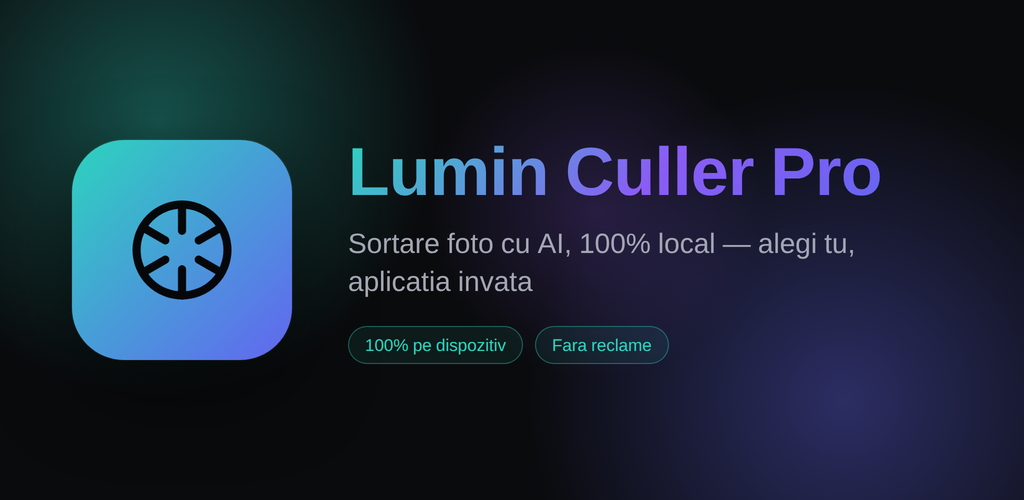
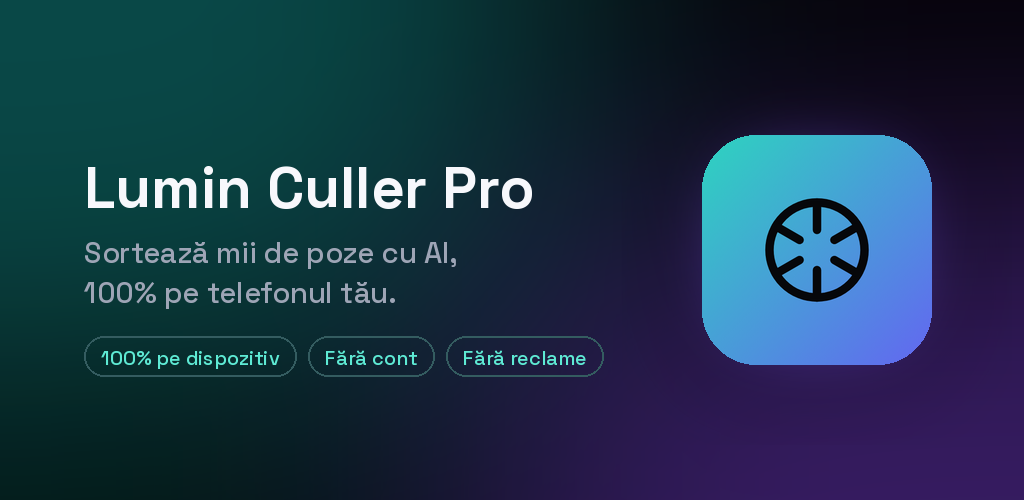
Imaginea reprezentativă, refăcută în stilul capturilor noi
Cea dinainte scria "aplicatia invata" — fără diacritice, exact defectul pe care
tocmai l-am scos din descriere. Într-o fișă unde restul e îngrijit, un singur
rând lăsat așa nu citește ca economie, ci ca neglijență, și e primul lucru pe
care îl vede cineva care deschide pagina.

Același fundal și aceleași fonturi ca la capturi, ca fișa să arate ca un întreg.
Textul stă la stânga și sigla la dreapta pentru că Play decupează imaginea pe
unele suprafețe și pune titlul și butoanele peste ea: când se taie, se taie din
aer, nu din cuvinte.

Claude-Session: https://claude.ai/code/session_0155ruC6WPAMZsMAjxbzwDqH

diff --git a/scripts/store-feature-graphic.py b/scripts/store-feature-graphic.py
@@ -1,0 +1,106 @@
+"""
+Imaginea reprezentativa (feature graphic) pentru Play Store — 1024x500.
+
+Cea dinainte scria "Sortare foto cu AI, 100% local — alegi tu, aplicatia
+invata": fara diacritice, adica exact defectul pe care l-am scos din descriere.
+Intr-o fisa unde restul textelor sunt ingrijite, un singur "aplicatia invata"
+lasat asa citeste ca neglijenta, nu ca economie.
+
+Foloseste acelasi fundal si aceleasi fonturi ca `store-screenshots.py`, ca fisa
+sa arate ca un intreg: doua lumini colorate — turcoaz sus-stanga, violet
+jos-dreapta — nu un degrade plat.
+
+Play decupeaza imaginea pe unele suprafete si suprapune peste ea butoane si
+titlu, asa ca tot ce conteaza sta departe de margini si de coltul din
+dreapta-jos. Textul e la stanga, sigla la dreapta: cand se taie, se taie din
+aer, nu din cuvinte.
+
+Ruleaza:  python3 scripts/store-feature-graphic.py [ro|en]
+"""
+import os
+import sys
+from PIL import Image, ImageDraw, ImageFont, ImageFilter
+
+sys.path.insert(0, os.path.dirname(os.path.abspath(__file__)))
+from importlib import import_module
+sg = import_module('store-screenshots'.replace('-', '_')) if False else None
+
+W, H = 1024, 500
+TEXT = (247, 248, 252)
+SUB = (158, 165, 182)
+TEAL = (94, 234, 212)
+
+TEXTE = {
+    'ro': ('Sortează mii de poze cu AI,\n100% pe telefonul tău.',
+           ['100% pe dispozitiv', 'Fără cont', 'Fără reclame']),
+    'en': ('Sort thousands of photos with AI,\n100% on your phone.',
+           ['100% on device', 'No account', 'No ads'])
+}
+
+
+def fundal():
+    bg = Image.new('RGB', (W, H), (8, 10, 16))
+    lum = Image.new('RGB', (W, H), (0, 0, 0))
+    d = ImageDraw.Draw(lum)
+    d.ellipse([-300, -360, 560, 420], fill=(10, 78, 76))
+    d.ellipse([460, H - 320, W + 300, H + 200], fill=(58, 30, 104))
+    return Image.blend(bg, lum.filter(ImageFilter.GaussianBlur(150)), 0.92)
+
+
+def rotunjeste(im, r):
+    masca = Image.new('L', im.size, 0)
+    ImageDraw.Draw(masca).rounded_rectangle([0, 0, im.width - 1, im.height - 1], r, fill=255)
+    out = im.convert('RGBA')
+    out.putalpha(masca)
+    return out
+
+
+def compune(limba):
+    # Fonturile se pregatesc o data, de scriptul capturilor (Space Grotesk cu
+    # diacritice romanesti — vezi antetul lui pentru de ce nu e banal).
+    from subprocess import run
+    bold, med = '/tmp/fonts/SG-bold.ttf', '/tmp/fonts/SG-med.ttf'
+    if not (os.path.exists(bold) and os.path.exists(med)):
+        run([sys.executable, 'scripts/store-screenshots.py', 'ro'], check=True)
+
+    bg = fundal()
+    d = ImageDraw.Draw(bg)
+    f_nume = ImageFont.truetype(bold, 58)
+    f_slog = ImageFont.truetype(med, 29)
+    f_pil = ImageFont.truetype(med, 20)
+
+    # ── Sigla, in dreapta ───────────────────────────────────────────────────
+    latura = 230
+    icon = rotunjeste(Image.open('store/icon-512.png').convert('RGB').resize(
+        (latura, latura), Image.LANCZOS), 54)
+    ix, iy = W - latura - 92, (H - latura) // 2
+    stralucire = Image.new('RGBA', (latura + 160, latura + 160), (0, 0, 0, 0))
+    stralucire.paste((124, 92, 246, 150), (80, 80, 80 + latura, 80 + latura), icon.split()[3])
+    stralucire = stralucire.filter(ImageFilter.GaussianBlur(46))
+    bg.paste(stralucire, (ix - 80, iy - 80), stralucire)
+    bg.paste(icon, (ix, iy), icon)
+
+    # ── Textul, la stanga ───────────────────────────────────────────────────
+    slogan, pilule = TEXTE[limba]
+    x = 84
+    d.text((x, 150), 'Lumin Culler Pro', font=f_nume, fill=TEXT)
+    y = 234
+    for linie in slogan.split('\n'):
+        d.text((x, y), linie, font=f_slog, fill=SUB)
+        y += 40
+
+    y += 22
+    for eticheta in pilule:
+        w = d.textlength(eticheta, font=f_pil)
+        d.rounded_rectangle([x, y, x + w + 34, y + 40], 20, outline=(52, 92, 96), width=2)
+        d.text((x + 17, y + 9), eticheta, font=f_pil, fill=TEAL)
+        x += w + 34 + 12
+
+    cale = 'store/feature-graphic.png' if limba == 'ro' else f'store/feature-graphic-{limba}.png'
+    bg.save(cale)
+    print(cale, bg.size)
+
+
+if __name__ == '__main__':
+    for limba in (sys.argv[1:] or ['ro', 'en']):
+        compune(limba)
